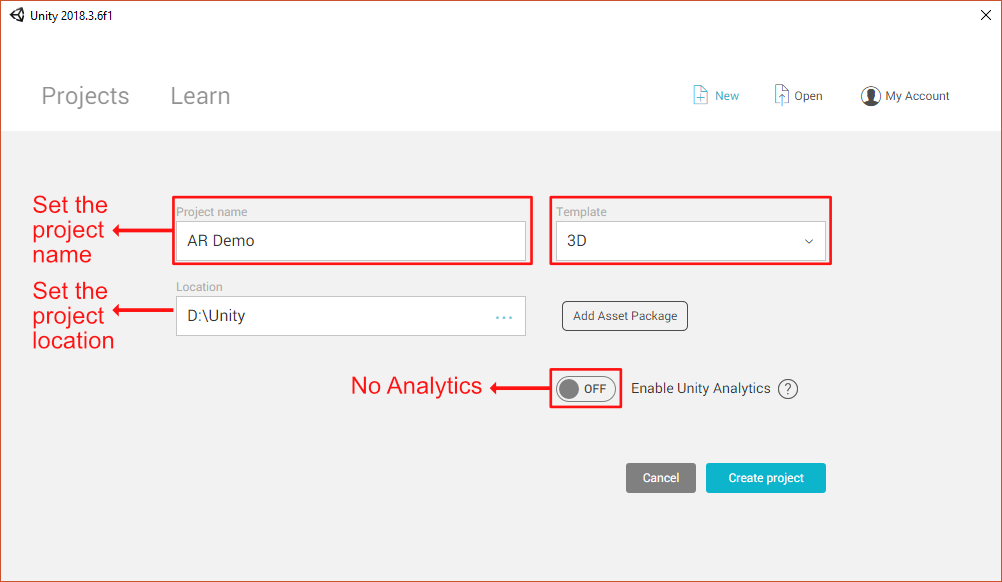
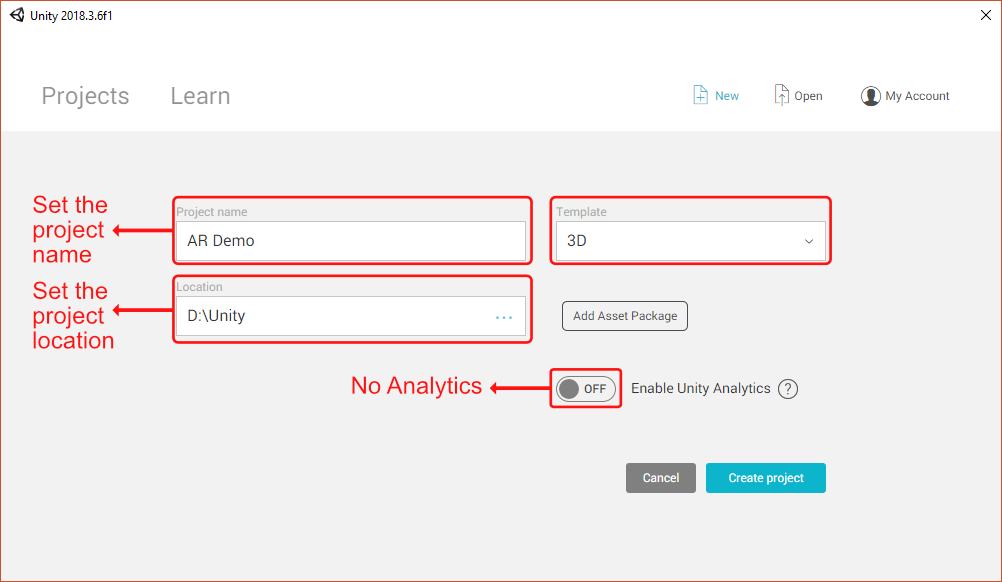
added screenshots for Unity exercise

diff --git a/_pages/chapters/engines.md b/_pages/chapters/engines.md
@@ -197,7 +197,7 @@ We will import a 3D model into Unity and write a script which will control the 3
    When logged in with an account, Unity Analytics gives developers a real-time insight into data about how users interact with their application.
    It is not required in this example.
 
-![Project Creation]({{pathToRoot}}/assets/figures/engines/Exercise_IntroductionToUnity/CreateProject.png)
+    ![Project Creation]({{pathToRoot}}/assets/figures/engines/Exercise_IntroductionToUnity/CreateProject.png)
 
 3. Once the project has been created, the 3D model can be imported.
    To do so, open a file browser and navigate to the project's folder.
@@ -209,10 +209,15 @@ We will import a 3D model into Unity and write a script which will control the 3
    In the Assets browser you will now find the "3D Models" folder and inside of it the 3D model.
    You can create an instance of the 3D model in the scene by dragging and dropping the 3D model file from the assets browser onto the 3D view or the scene hierarchy.
    In order to quickly move the viewport to the 3D model, double click the object's entry in the hierarchy view.
-5. In the inspector panel, the attributes of the 3D model can be changed.
+
+    ![Drag And Drop Model]({{pathToRoot}}/assets/figures/engines/Exercise_IntroductionToUnity/DragAndDropModel.png)
+
+5. With the 3D object selected in the scene, in the inspector panel, the attributes of the 3D model can be changed.
    Under "Transform", its position, rotation and size can be adapted to fit the scene.
    Set the position to (0, 0, 0) so that the object is situated in the origin of the coordinate system.
-   For the bunny model, the size was increased to (10, 10, 10).
+
+    ![Drag And Drop Model]({{pathToRoot}}/assets/figures/engines/Exercise_IntroductionToUnity/AdjustTransform.png)
+
 6. It is also possible to add a material to the bunny which can be used to add color to the object's surface.
    In order to do this, create a new folder called "Materials" in the root directory of the assets browser.
    Then right click on the assets browser and choose "Create > Material".
@@ -223,16 +228,22 @@ We will import a 3D model into Unity and write a script which will control the 3
    By default, the material is setup as a Physically Based Rendering (PBR) material, so its surface color can be changed in the "*Albedo*" option.
    Click once on the white box next to "*Albedo*" to open a color picker dialog.
    Select a color and simply close the color dialog again to apply the selected color to the material.
+
+    ![Drag And Drop Model]({{pathToRoot}}/assets/figures/engines/Exercise_IntroductionToUnity/MaterialSetup.png)
+
 8. In the inspector view, the color on the sphere in the material preview window has been changed accordingly.
    However, the color does not appear on the 3D model yet.
    In order to view the material on the model, the material must be applied to it.
    The simplest way to do this is to drag and drop the material file from the assets browser onto the object in the 3D view.
+
+    ![Drag And Drop Model]({{pathToRoot}}/assets/figures/engines/Exercise_IntroductionToUnity/DragAndDropMaterial.png)
+
 9. Make sure that the object is also visible in the game view since it provides a preview of the final application.
    If the object is not visible, go back to the 3D view and select the camera.
    Move and rotate the camera so that the object is visible from its perspective.
    This can also be done by the widgets or by entering values in the transform component in the inspector.
-   When the camera is selected, a small preview window will appear in the 3D view which shows what the camera sees.
-   In the example scene, we used the positional values (0, 2, 3) and rotation angles of (20, 180, 0).
+   When the camera is selected, a small preview window will appear in the right bottom of the 3D view which shows what the camera sees.
+   In the example scene, we used the positional values (0, 1, 3) and rotation angles of (20, 180, 0).
 10. We are now ready to create the script which will handle the movement of the 3D object.
    Similar to the creation of the other files, first create a folder called "Scripts" and then create a C# script called "ObjectMover" by right-clicking and selecting "Create > C# Script".
    The created script is automatically set up as a C# class which is also called `ObjectMover`.
@@ -240,26 +251,26 @@ We will import a 3D model into Unity and write a script which will control the 3
    Double click on the file in the assets browser in order to edit it in a development environment, e.g. Visual Studio.
 11. With `Start` and `Update` two of these callback methods have already been defined in the class.
    We will first modify the update-function to implement the actual movement:
-   ```[C#]
+    ```[C#]
     // Update is called once per frame
     void Update()
     {
         float xAxisMovement = Mathf.Sin(Time.time);
         gameObject.transform.position = new Vector3(xAxisMovement, 0, 0);
     }
-   ```
-   The given code segment makes the object go back and forth between the -1 and 1 coordinates on the X axis.
-   We can move an object in such a periodical manner by using the time as an input for the sine function.
-   This is done in the first line in the `Update` method.
-   The sine function is implemented in the `Mathf` namespace.
-   Next, we only require a way to access the time.
-   If we look at Unity's documentation, we can see that `Time.time` is exactly what we are looking for since it provides the time in seconds since application-startup.
-   The second line handles the actual movement of the object.
-   The local variable `gameobject` is defined in the MonoBehavior parent class and it refers to the object instance to which the script is attached.
-   By accessing its `transform` variable, one can edit its position.
-   If we assign values to the position, it will apply the values to the exact same Transform component that we previously changed manually in the inspector view to set its position.
-   Since the `Update` function is called once per frame, the object's position will be updated in every frame step.
-   Thus, the changes will appear as one continuous movement.
+    ```
+    The given code segment makes the object go back and forth between the -1 and 1 coordinates on the X axis.
+    We can move an object in such a periodical manner by using the time as an input for the sine function.
+    This is done in the first line in the `Update` method.
+    The sine function is implemented in the `Mathf` namespace.
+    Next, we only require a way to access the time.
+    If we look at Unity's documentation, we can see that `Time.time` is exactly what we are looking for since it provides the time in seconds since application-startup.
+    The second line handles the actual movement of the object.
+    The local variable `gameobject` is defined in the MonoBehavior parent class and it refers to the object instance to which the script is attached.
+    By accessing its `transform` variable, one can edit its position.
+    If we assign values to the position, it will apply the values to the exact same Transform component that we previously changed manually in the inspector view to set its position.
+    Since the `Update` function is called once per frame, the object's position will be updated in every frame step.
+    Thus, the changes will appear as one continuous movement.
 
 12. If you start Unity's play mode now, the object will still not move since the script is not yet attached to the object.
    In order to fix this, navigate to the script in the assets browser.
@@ -274,29 +285,29 @@ We will import a 3D model into Unity and write a script which will control the 3
    In the case of our float variable `speed`, this means, that Unity will automatically create a numeric text field on the MoveObject component where we can enter values.
    Multiply the `speed` variable with the time.
 
-```[C#]
-using System.Collections;
-using System.Collections.Generic;
-using UnityEngine;
-
-public class ObjectMover : MonoBehaviour
-{
-    public float speed = 1f;
-
-    // Start is called before the first frame update
-    void Start()
+    ```[C#]
+    using System.Collections;
+    using System.Collections.Generic;
+    using UnityEngine;
+    
+    public class ObjectMover : MonoBehaviour
     {
-        
+        public float speed = 1f;
+    
+        // Start is called before the first frame update
+        void Start()
+        {
+            
+        }
+    
+        // Update is called once per frame
+        void Update()
+        {
+            float xAxisMovement = Mathf.Sin(speed * Time.time);
+            gameObject.transform.position = new Vector3(xAxisMovement, 0, 0);
+        }
     }
-
-    // Update is called once per frame
-    void Update()
-    {
-        float xAxisMovement = Mathf.Sin(speed * Time.time);
-        gameObject.transform.position = new Vector3(xAxisMovement, 0, 0);
-    }
-}
-```
+    ```
 15. In the editor, it is now possible to edit the speed.
    This also works while in play mode so that changes to such properties can be previewed in real-time.
    However, any changes while in play mode will be reset once play mode is exited again.
